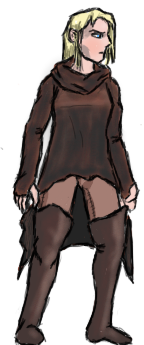
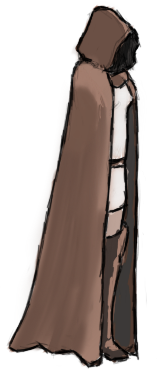
New Art for Erina Leather standing -- not sure if I'll keep it or not though

diff --git a/DarkValkyrie/DarkValkyrie/ViewModel/GamePageViewModel.cs b/DarkValkyrie/DarkValkyrie/ViewModel/GamePageViewModel.cs
@@ -174,7 +174,6 @@ namespace DarkValkyrie.ViewModel
 
         //internal List<Character> Actors;
         internal Character player1;
-
         internal List<Actor> Actors;
 
         //==========================================================
@@ -237,10 +236,7 @@ namespace DarkValkyrie.ViewModel
 
             Actor PL1 = new Actor(player1, player1Sprite);
             Actors.Add(PL1);
-
-            //-- set up player1 in the display handler
-
-            deviceScreen.AddCharacter(PL1.Sprite, ref player1);
+            deviceScreen.AddCharacter(PL1);
 
             //-- set up control
 
@@ -307,7 +303,6 @@ namespace DarkValkyrie.ViewModel
             if (levelName == "save.xml")
             {
                 string fileName = Path.Combine(Environment.GetFolderPath(Environment.SpecialFolder.LocalApplicationData), "save.xml");
-
                 string fileContents = File.ReadAllText(fileName);
 
                 _level.LoadXml(fileContents);
@@ -364,7 +359,7 @@ namespace DarkValkyrie.ViewModel
                 //-- add their sprites to the display handler
 
                 mob1.SpriteIndex = deviceScreen.Sprites.Count;
-                deviceScreen.AddCharacter(newMob.Sprite, ref mob1);
+                deviceScreen.AddCharacter(newMob);
             }
         }
 
@@ -467,7 +462,7 @@ namespace DarkValkyrie.ViewModel
 
         //============================================================================
 
-        /*----------------------------------------------
+        /*--------------------------------------------------------
          * 
          * Player Input
          * 
@@ -481,7 +476,7 @@ namespace DarkValkyrie.ViewModel
          * be generated by the AI's function instead of the player's 
          * button pushes.
          * 
-         * -------------------------------------------*/
+         * -------------------------------------------------------*/
 
         private string playerInput = "";
         public string PlayerInput
@@ -503,7 +498,7 @@ namespace DarkValkyrie.ViewModel
 
         //=============================================================================
 
-        /*-----------------------------
+            /*-----------------------------
             * 
             * FEATURE DELAYED
             * 
@@ -948,7 +943,7 @@ namespace DarkValkyrie.ViewModel
             }
         }
 
-        //==========================================================
+        //====================================================================
 
         /*-----------------------------------------------------
          * 
@@ -963,9 +958,9 @@ namespace DarkValkyrie.ViewModel
         {
             foreach (var actor in Actors)
             {
-                //Sprite sprite = deviceScreen.Sprites[actor.SpriteIndex];
-
                 Sprite sprite = actor.Sprite;
+
+                //-- player / character the camera is tied to
 
                 if (actor.Character.Name == "Erina")
                 {
@@ -990,8 +985,6 @@ namespace DarkValkyrie.ViewModel
          * 
          * -----------------------------------*/
 
-        //internal void EvaluateVerticalMovement(Character actor, Sprite sprite)
-        
         internal void EvaluateVerticalMovement(Actor moving_actor)
         {
             Sprite sprite = moving_actor.Sprite;
@@ -1066,10 +1059,12 @@ namespace DarkValkyrie.ViewModel
                         sprite.Translate(0, 0 - actor.ySpeed);
                     }
                 }
+
+                //-- speed is 0, so do nothing
             }
         }
 
-        //============================================================
+        //=========================================================================
 
         /*-------------------------------------------
          * 
@@ -1094,7 +1089,7 @@ namespace DarkValkyrie.ViewModel
             }
         }
 
-        //============================================================
+        //==========================================================================
 
         /*--------------------------------------
          * 

diff --git a/DarkValkyrie/DarkValkyrie/Graphics/Screen.cs b/DarkValkyrie/DarkValkyrie/Graphics/Screen.cs
@@ -3,6 +3,7 @@ using SkiaSharp;
 using SkiaSharp.Views.Forms;
 
 using Valkyrie.GL;
+using DarkValkyrie.ViewModel;
 using System.Windows.Input;
 using Xamarin.Forms;
 using System.Collections.ObjectModel;
@@ -145,15 +146,15 @@ namespace DarkValkyrie.Graphics
          * 
          * -----------------------------------------------*/
 
-        public void AddCharacter(Sprite newSprite, ref Character newCharacter)
+        //public void AddCharacter(Sprite newSprite, ref Character newCharacter)
+        
+        public void AddCharacter(Actor newActor)
         {
-            MoveSprite(newSprite, newCharacter.BlockPosition);
+            MoveSprite(newActor.Sprite, newActor.Character.BlockPosition);
+            newActor.Sprite.facing = Facing.right;
 
-            newSprite.facing = Facing.right;
-
-            Sprites.Add(newSprite);
-
-            newCharacter.SpriteIndex = Sprites.Count - 1;
+            Sprites.Add(newActor.Sprite);
+            newActor.Character.SpriteIndex = Sprites.Count - 1;
         }
 
         //==========================================================
@@ -381,6 +382,10 @@ namespace DarkValkyrie.Graphics
         /*---------------------------------------
          * 
          * Event Handler to redraw the screen
+         * 
+         * I need to find a way to cache the 
+         * surface and only redraw what is 
+         * necessary
          * 
          * ------------------------------------*/
 

diff --git a/DarkValkyrie/DarkValkyrie/ViewModel/Actor.cs b/DarkValkyrie/DarkValkyrie/ViewModel/Actor.cs
@@ -18,15 +18,13 @@ using Valkyrie.GL;
 
 namespace DarkValkyrie.ViewModel
 {
-    //public enum ControlType {player, enemyAI, neutralAI, friendlyAI };
-
     public class Actor
     {
         internal
 
         Character character_;
         Sprite sprite_;
-        //ControlType control_;
+        string control_command_;
 
         //==================================================
 
@@ -39,11 +37,11 @@ namespace DarkValkyrie.ViewModel
          * 
          * ---------------------------------------*/
 
-        public Actor(Character GLchar, Sprite graphicsSprite /*, ControlType playername*/)
+        public Actor(Character GLchar, Sprite graphicsSprite)
         {
             character_ = GLchar;
             sprite_ = graphicsSprite;
-            //control_ = playername;
+            control_command_ = "";
         }
 
         //============================================================================
@@ -73,5 +71,20 @@ namespace DarkValkyrie.ViewModel
                 character_ = value;
             }
         }
+
+        //==========================================================================
+
+        public string Command
+        {
+            get
+            {
+                return control_command_;
+            }
+            set
+            {
+                control_command_ = value;
+            }
+        }
+
     }
 }

diff --git a/DarkValkyrie/DarkValkyrie/App.xaml.cs b/DarkValkyrie/DarkValkyrie/App.xaml.cs
@@ -5,11 +5,16 @@ using Xamarin.Forms;
 using Xamarin.Forms.Xaml;
 
 /*=================================================================
- * 
+ *
+ *  This started out as my final project for a Certificate IV 
+ *  in programming from Upskilled. I've decided I'd like to 
+ *  expand it a bit further into at least an interactive demo
+ *  to demonstrate all core concepts as a minimum viable product.
+ *  
+ *  This is an early alpha build, not yet licensed for distribution
+ *  
  * Adam Coville
  * adam.coville@gmail.com
- * Upsilled ICT_CIV_PROG_201810 
- * Mobile Project
  * 
  * App.cs
  * 
@@ -24,11 +29,7 @@ namespace DarkValkyrie
 
         /*----------------------------------------
          * 
-         * App Constructor
-         * 
-         * shows a splash page crediting the 
-         * development team for 3 seconds,
-         * then transitions to main menu
+         * App Entry Point / Constructor
          * 
          * -------------------------------------*/
 
